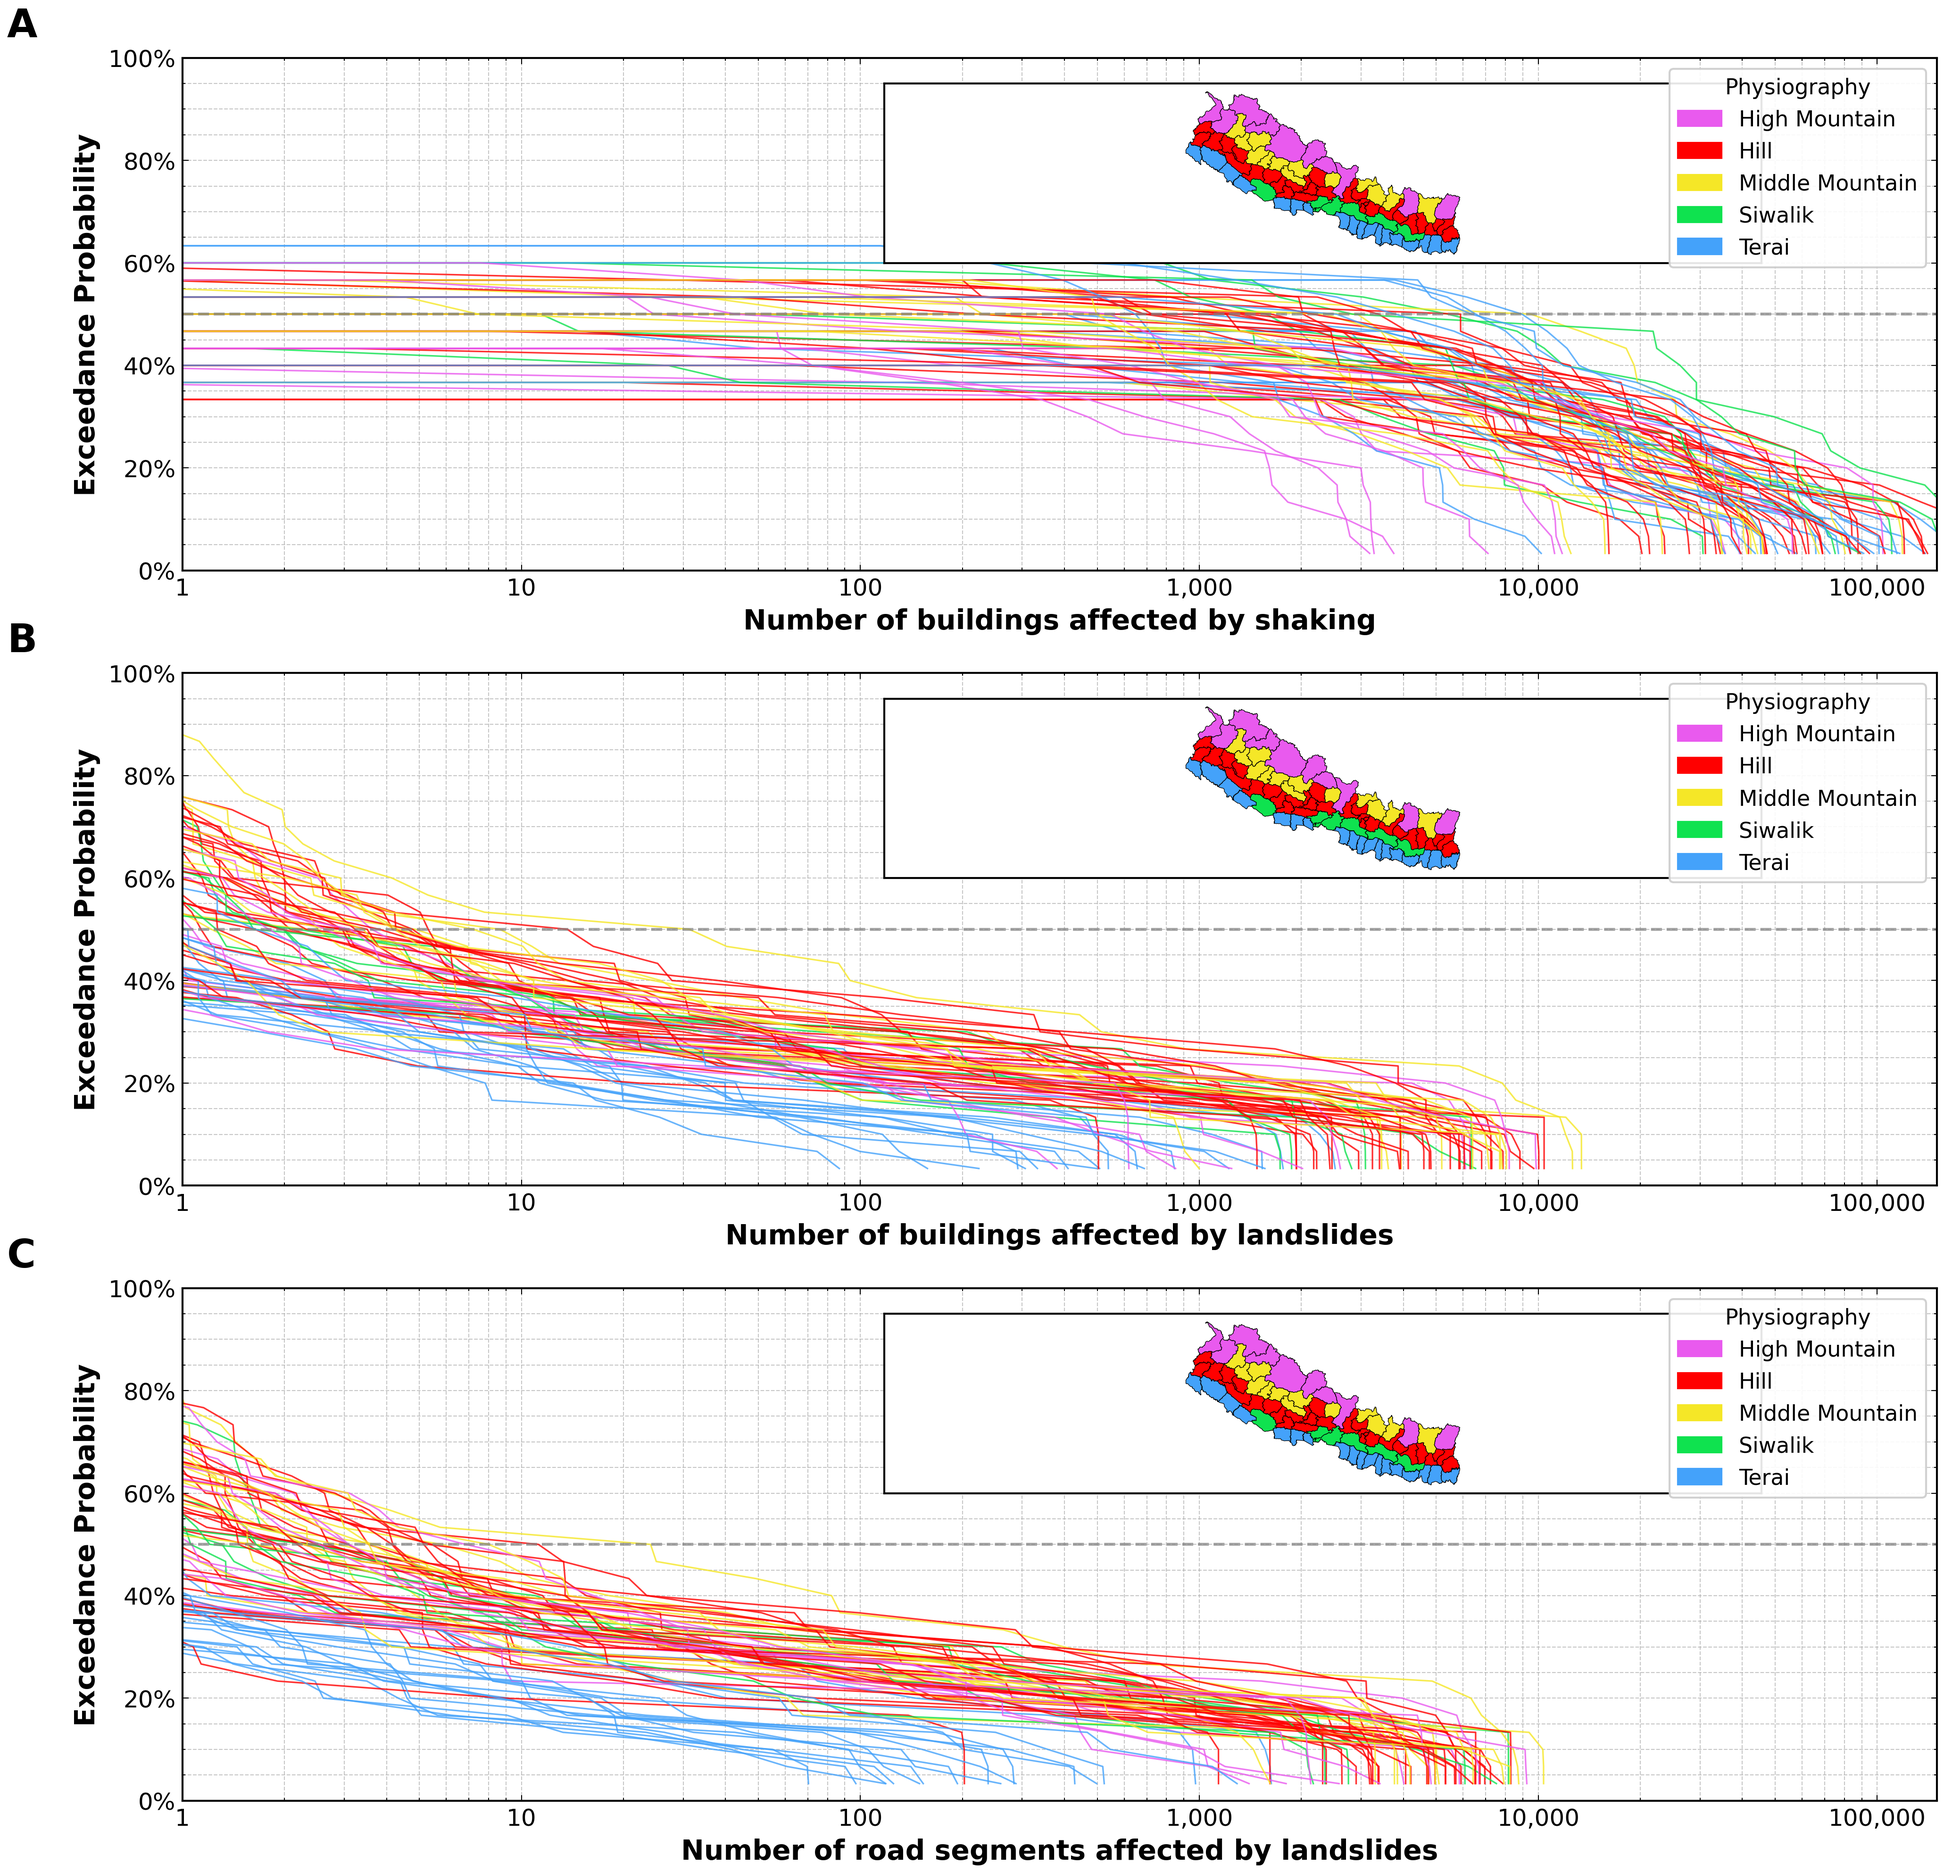
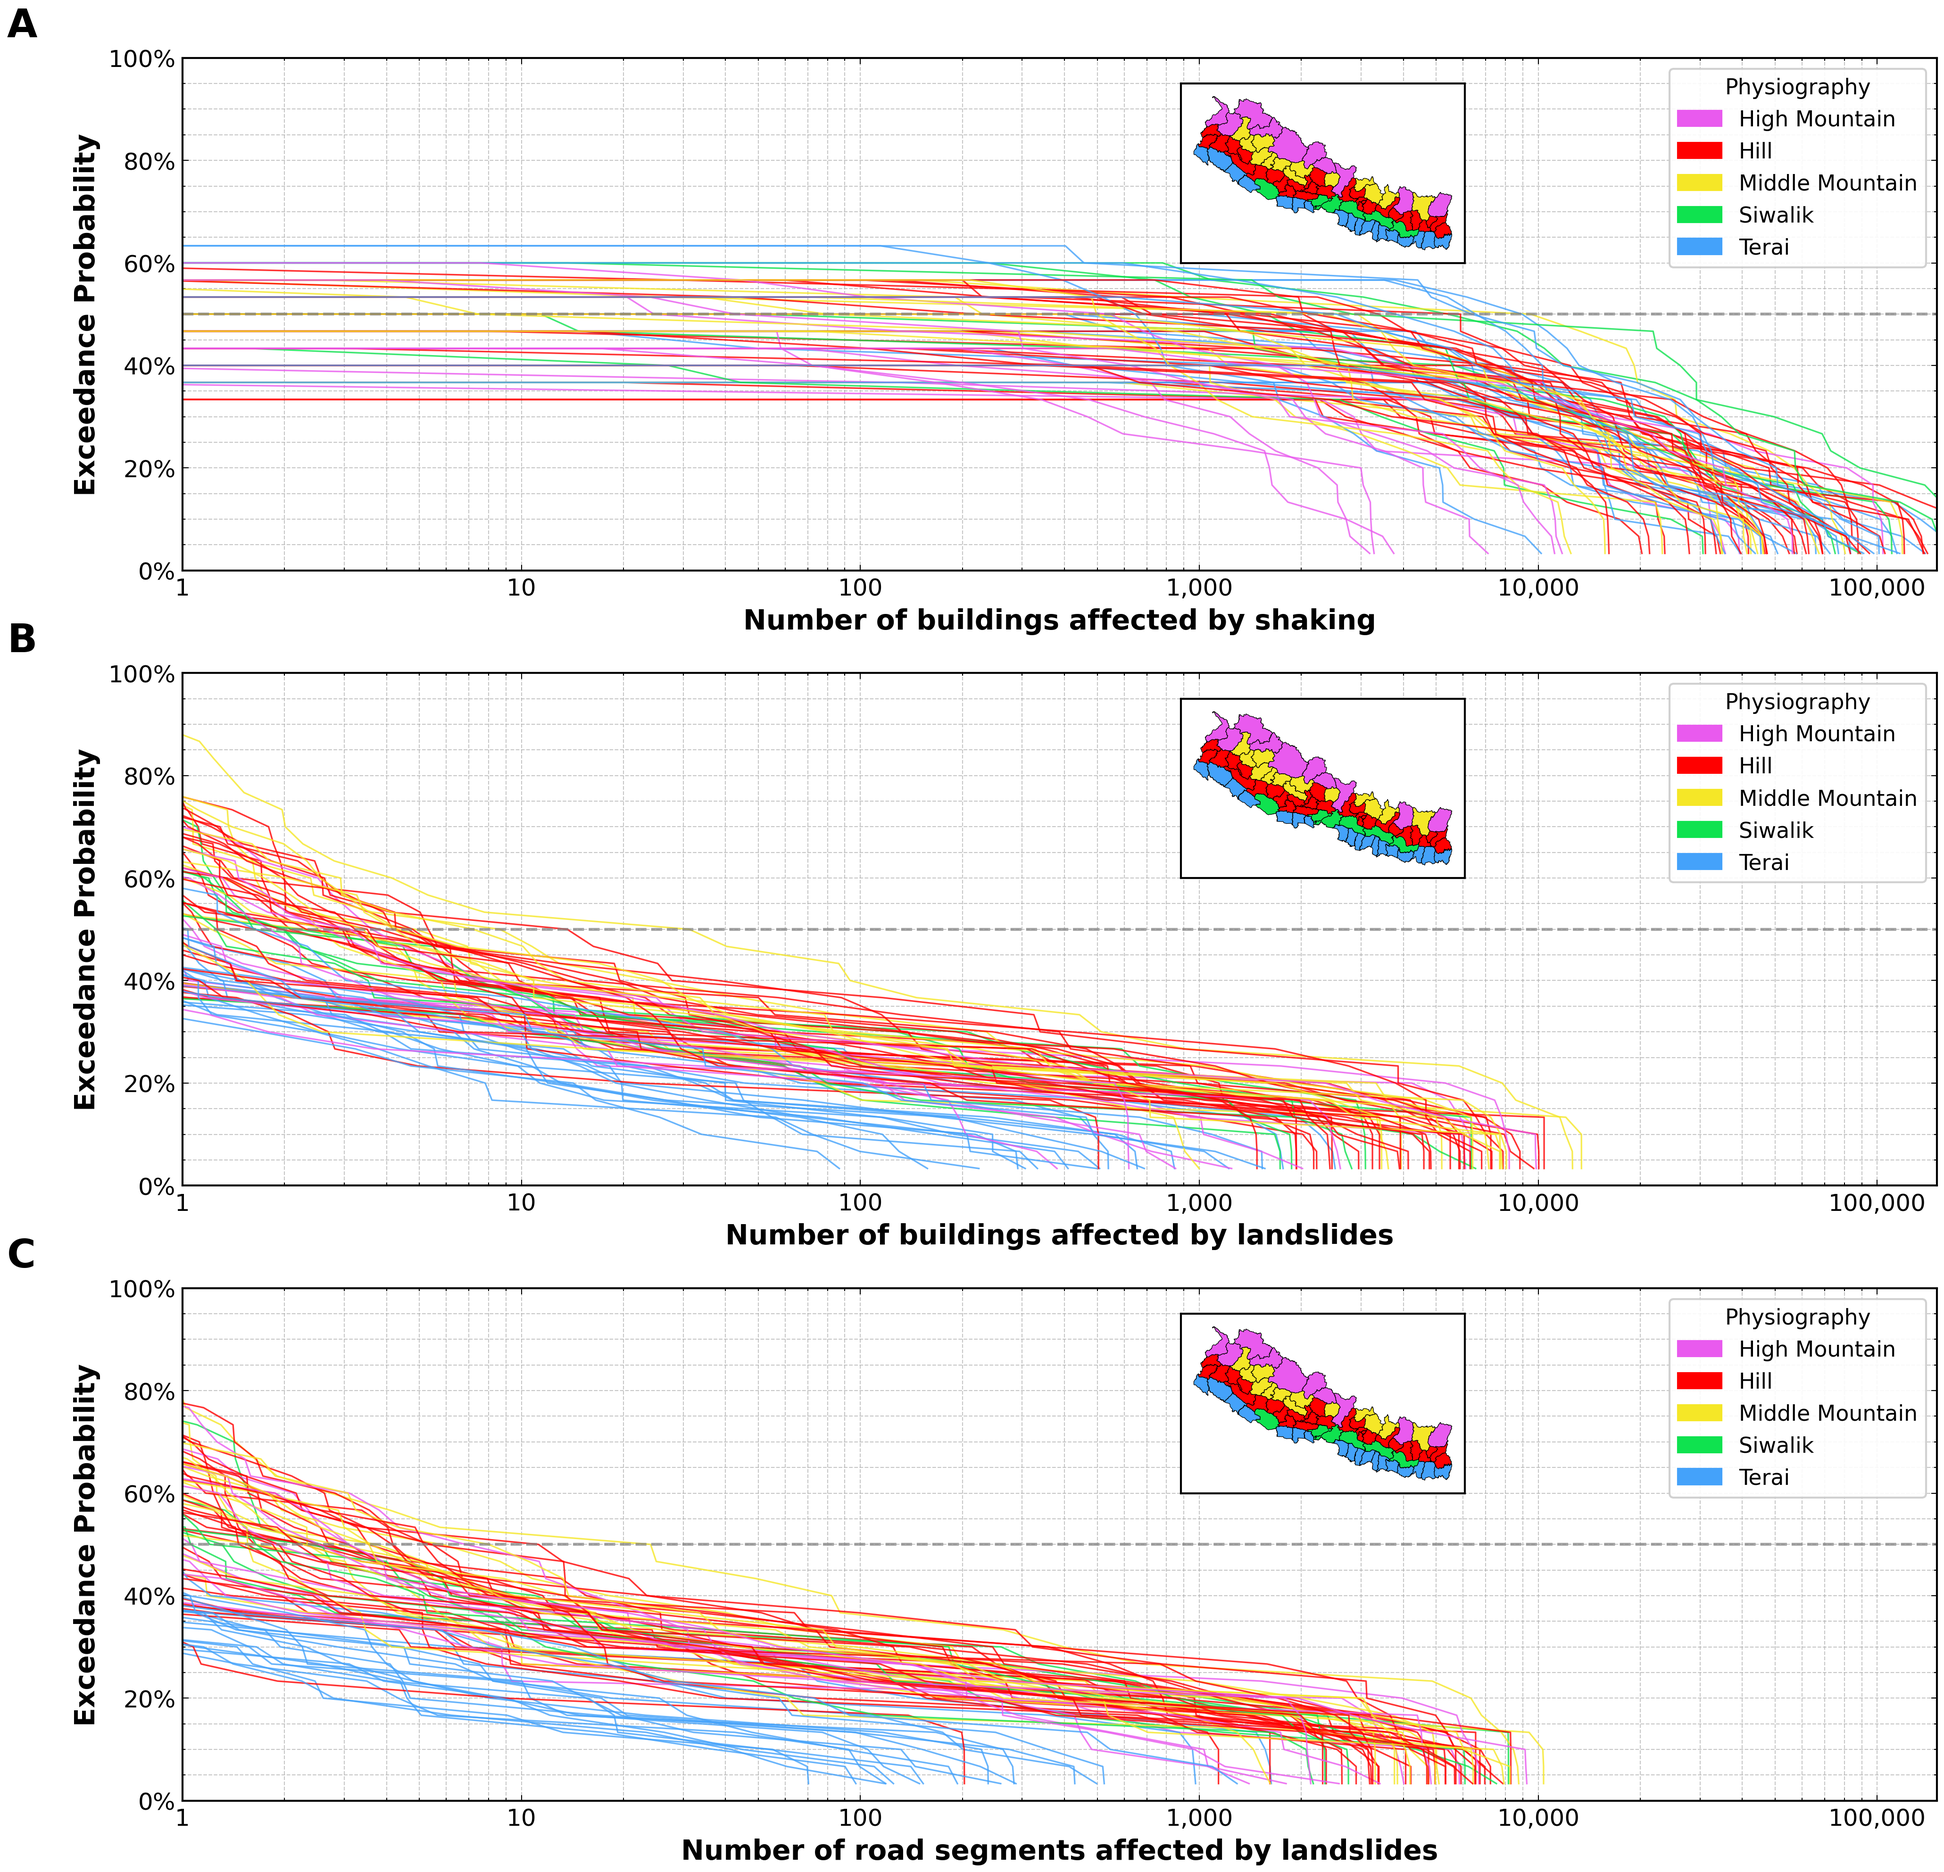
updated figure 4 minimaps

diff --git a/consolidated_figures_editable.py b/consolidated_figures_editable.py
@@ -751,6 +751,8 @@ def plot_exceedance_by_physiography(data, impact_type, ax, label, add_inset=Fals
         # Ensure 'Terai' is correctly mapped
         nepal_admin_with_physio['Physiography'] = nepal_admin_with_physio['Physiography'].replace('Tarai', 'Terai')
         nepal_admin_with_physio['Physiography'] = nepal_admin_with_physio['Physiography'].fillna('Unknown')
+        # Project to UTM 45N so the map is not stretched east-west (degrees are not square at ~28N)
+        nepal_admin_with_physio = nepal_admin_with_physio.to_crs("EPSG:32645")
         nepal_admin_with_physio.plot(
             column='Physiography',
             ax=inset_ax,
@@ -759,9 +761,17 @@ def plot_exceedance_by_physiography(data, impact_type, ax, label, add_inset=Fals
             linewidth=0.3,
             legend=False
         )
+        # White box fitted to the map (with a small margin) so the curves behind are masked
+        minx, miny, maxx, maxy = nepal_admin_with_physio.total_bounds
+        pad = 0.05 * (maxx - minx)
+        inset_ax.set_xlim(minx - pad, maxx + pad)
+        inset_ax.set_ylim(miny - pad, maxy + pad)
+        inset_ax.set_aspect('equal', adjustable='box')
+        inset_ax.set_facecolor('white')
         inset_ax.set_xticks([])
         inset_ax.set_yticks([])
-        inset_ax.set_aspect('equal', adjustable='datalim')
+        inset_ax.tick_params(which='both', length=0)
+        inset_ax.minorticks_off()
         # inset_ax.set_title('Physiography', fontsize=14, fontweight='bold')
 
     return ax
